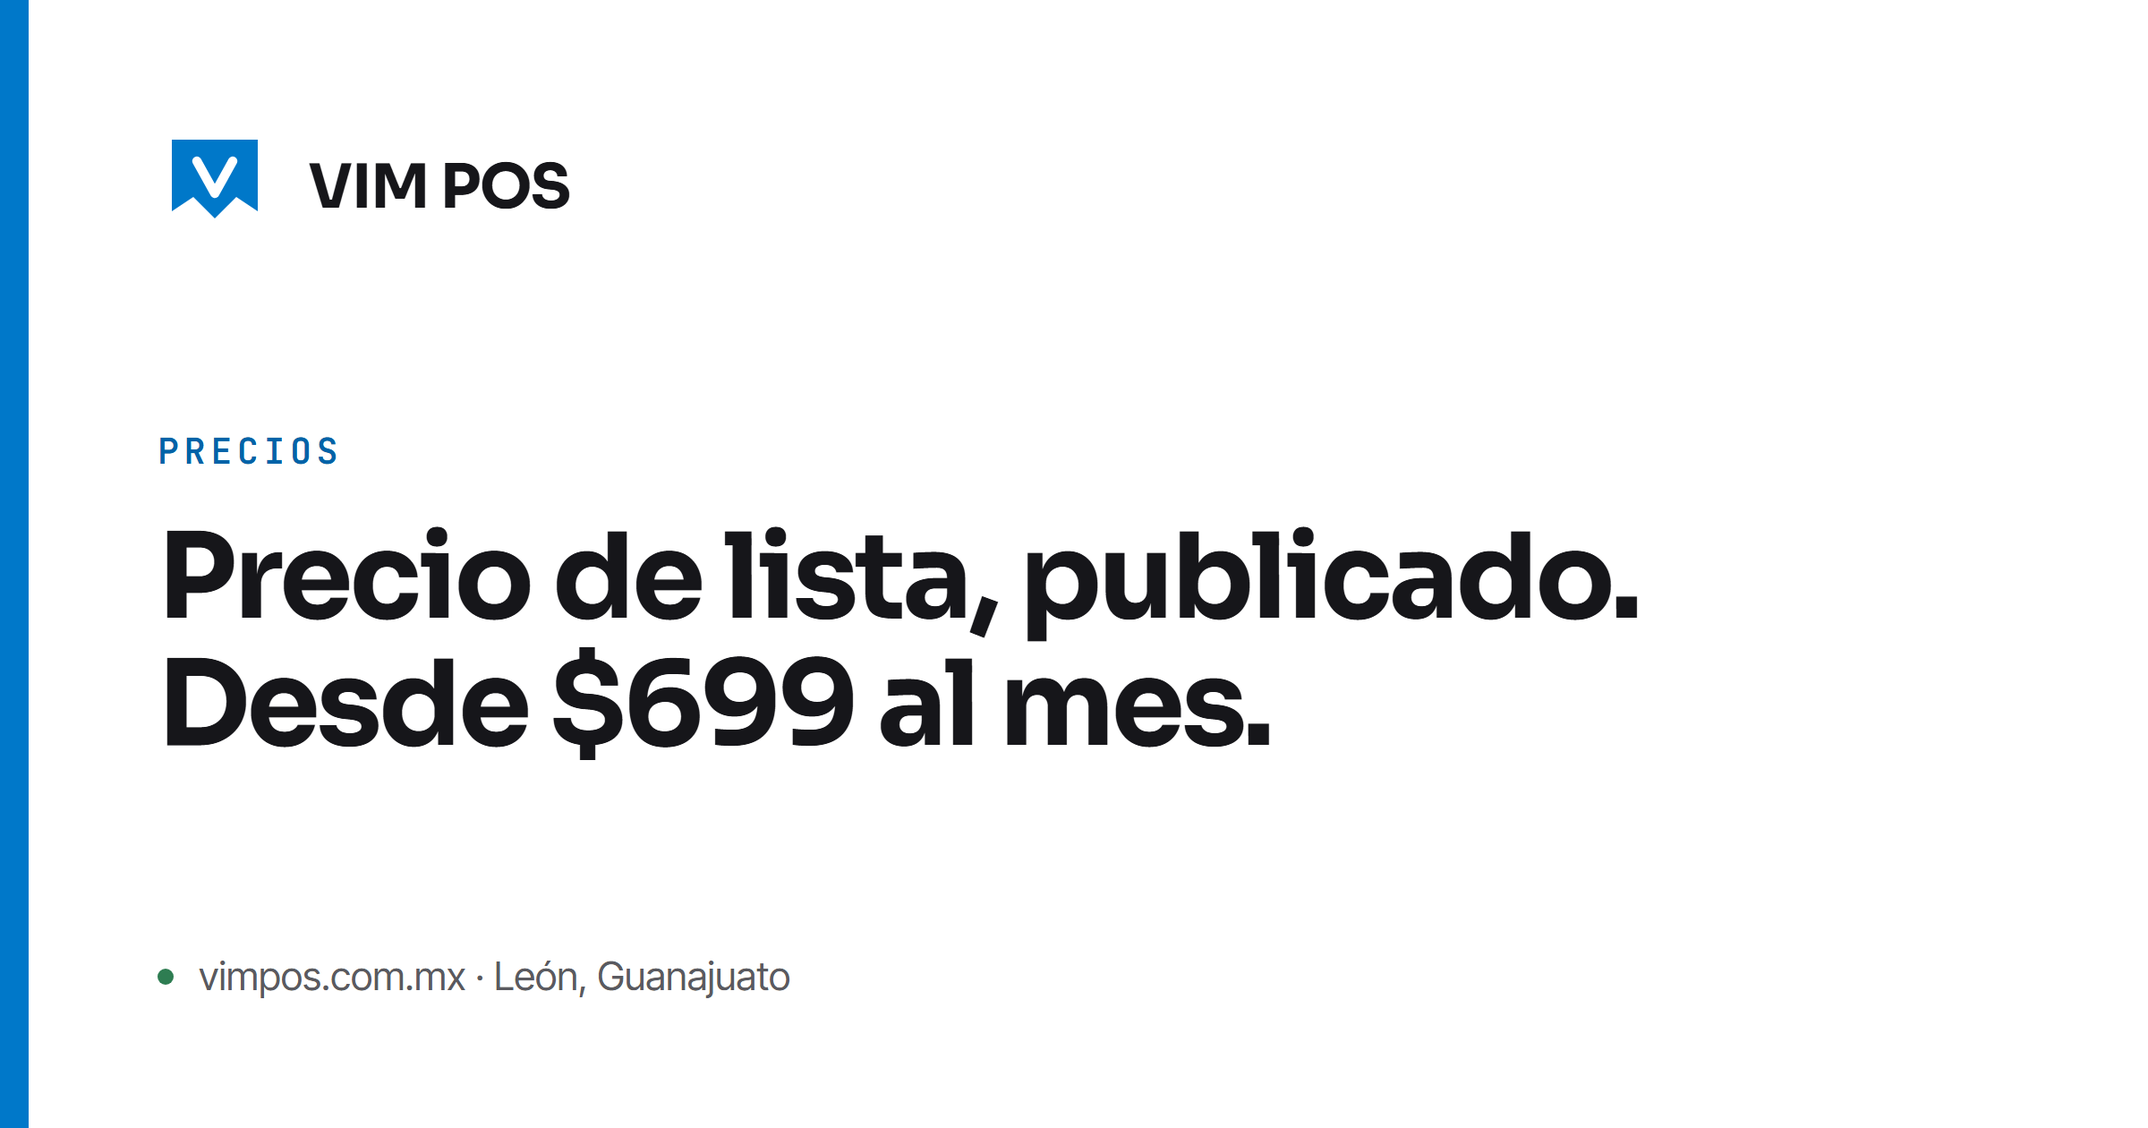
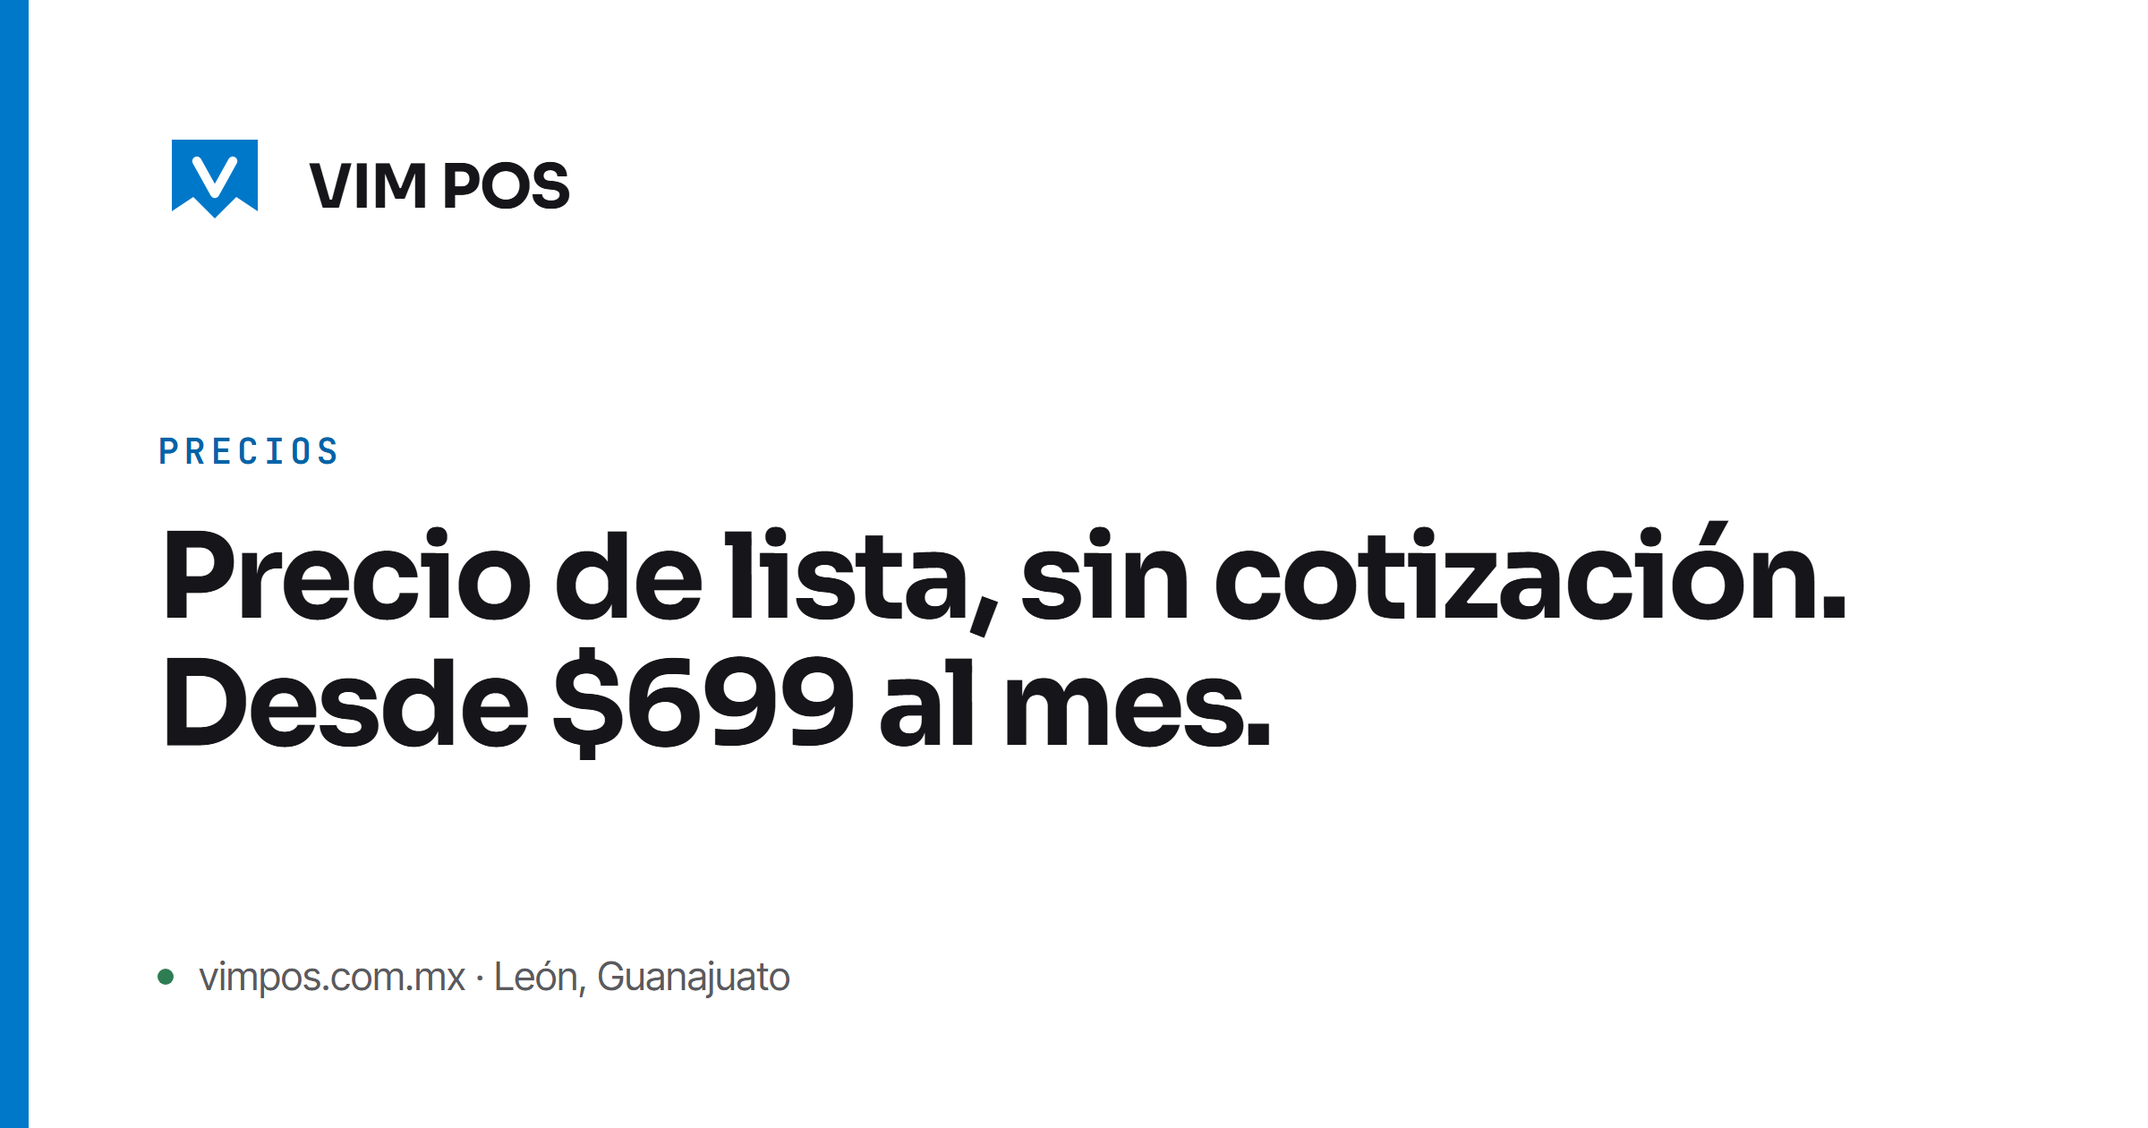
fix(sitio+producto): USB sí funciona, horario lunes a sábado, fuera «precio publicado» (#111)
* fix(producto): las impresoras USB sí funcionan; corrige la pantalla de descarga, el correo de bienvenida y el doc de alta

La pantalla de descarga del panel, el correo de bienvenida y docs/operacion/alta-de-cliente.md
decían que las impresoras USB no funcionan. Funcionan las de USB (instaladas en Windows) y las de red.

* fix(sitio): impresoras USB y de red, horario de WhatsApp lunes a sábado y fuera «precio publicado»

- Impresoras: el sitio decía que las de USB no funcionan; ahora dice que funcionan las de red y las de USB.
- Horario de WhatsApp: de lunes a sábado, de 9:00 a 18:00; domingo no hay servicio (precios, contacto, terminos).
- Copy: se quita «precio publicado» y variantes; el precio va de frente, desde $699 al mes más IVA.
- Espejos .md, llms.txt y llms-full.txt regenerados con generar.mjs.

---------

Changed region(s): [[0.4688, 0.4643, 0.875, 0.5881]]

diff --git a/sitio-web/punto-de-venta-restaurantes-leon.html b/sitio-web/punto-de-venta-restaurantes-leon.html
@@ -5,7 +5,7 @@
 <meta name="viewport" content="width=device-width, initial-scale=1">
 
 <title>Punto de venta para restaurantes en León, Guanajuato — VIM POS</title>
-<meta name="description" content="VIM POS se hace en León. Si tu restaurante está en la zona, la demo es en tu mostrador y con tu menú. Precio publicado desde $699 al mes.">
+<meta name="description" content="VIM POS se hace en León. Si tu restaurante está en la zona, la demo es en tu mostrador y con tu menú. Desde $699 al mes más IVA, sin letra chica.">
 <link rel="canonical" href="https://vimpos.com.mx/punto-de-venta-restaurantes-leon">
 <link rel="alternate" type="text/markdown" href="https://vimpos.com.mx/punto-de-venta-restaurantes-leon.md" title="Esta página en Markdown">
 
@@ -13,7 +13,7 @@
 <meta property="og:locale" content="es_MX">
 <meta property="og:site_name" content="VIM POS">
 <meta property="og:title" content="Punto de venta para restaurantes en León, Guanajuato">
-<meta property="og:description" content="VIM POS se hace en León. Si tu restaurante está en la zona, la demo es en tu mostrador y con tu menú. Precio publicado desde $699 al mes.">
+<meta property="og:description" content="VIM POS se hace en León. Si tu restaurante está en la zona, la demo es en tu mostrador y con tu menú. Desde $699 al mes más IVA, sin letra chica.">
 <meta property="og:url" content="https://vimpos.com.mx/punto-de-venta-restaurantes-leon">
 <meta property="og:image" content="https://vimpos.com.mx/assets/img/og/leon.png">
 <meta property="og:image:width" content="1200">
@@ -172,7 +172,7 @@
           <p>Tu cliente escanea el ticket y se factura solo; la factura global sale con un botón. <a href="/facturacion-cfdi">Facturación CFDI 4.0</a>.</p>
         </div>
         <div class="tarjeta pila pila-3">
-          <h3>Precio publicado</h3>
+          <h3>Precio de frente</h3>
           <p>Desde $699 al mes más IVA, sin pago inicial ni contrato forzoso. <a href="/precios">Los tres planes</a>.</p>
         </div>
       </div>
@@ -287,7 +287,7 @@
       "@id": "https://vimpos.com.mx/punto-de-venta-restaurantes-leon#pagina",
       "url": "https://vimpos.com.mx/punto-de-venta-restaurantes-leon",
       "name": "Punto de venta para restaurantes en León, Guanajuato — VIM POS",
-      "description": "VIM POS se hace en León. Si tu restaurante está en la zona, la demo es en tu mostrador y con tu menú. Precio publicado desde $699 al mes.",
+      "description": "VIM POS se hace en León. Si tu restaurante está en la zona, la demo es en tu mostrador y con tu menú. Desde $699 al mes más IVA, sin letra chica.",
       "inLanguage": "es-MX",
       "isPartOf": {
         "@id": "https://vimpos.com.mx/#sitio"

diff --git a/sitio-web/index.html b/sitio-web/index.html
@@ -31,7 +31,7 @@
 <meta property="og:locale" content="es_MX">
 <meta property="og:site_name" content="VIM POS">
 <meta property="og:title" content="Todo lo que tu restaurante necesita, sin letra chica">
-<meta property="og:description" content="Caja, cocina, mesas, inventario y facturación. Implementación incluida y el precio publicado.">
+<meta property="og:description" content="Caja, cocina, mesas, inventario y facturación. Implementación incluida y el precio de frente.">
 <meta property="og:url" content="https://vimpos.com.mx/">
 <meta property="og:image" content="https://vimpos.com.mx/assets/img/og/home.png">
 <meta property="og:image:width" content="1200">
@@ -129,7 +129,7 @@
        entero estaba montado encima.
 
        «Sin letra chica» sí se sostiene, y se comprueba en esta misma página:
-       el precio está publicado, hay una sección de lo que NO incluye, y la
+       el precio está a la vista, hay una sección de lo que NO incluye, y la
        facturación dijo «muy pronto» hasta que estuvo encendida de verdad
        (3-sep-2026, ADR 0009) en vez de fingir que ya estaba. Eso es lo
        que una marca desconocida puede ofrecer contra una de 25 años: ser
@@ -174,7 +174,7 @@
        se puede enseñar en pantalla en una demo de veinte minutos. -->
   <section class="hechos" aria-label="Hechos verificables">
     <div class="hecho"><p>Todo tu sistema vive en tu caja, no en internet</p></div>
-    <div class="hecho"><p>Imprime en impresoras térmicas de tickets conectadas a tu red</p></div>
+    <div class="hecho"><p>Imprime en impresoras térmicas de tickets, de red o de USB</p></div>
     <div class="hecho"><p>El corte de caja cuadra contra lo que hay en el cajón</p></div>
     <div class="hecho"><p>Ves la venta del día desde tu celular</p></div>
   </section>
@@ -608,7 +608,7 @@
     <div class="contenedor pila pila-8">
       <div class="pila pila-4">
         <p class="eyebrow">Precios</p>
-        <h2>Precio de lista, publicado</h2>
+        <h2>Precio de lista, sin cotización</h2>
         <p>Mensual, en pesos, más IVA. Sin cotización ni «contáctanos para conocer el precio».</p>
       </div>
 

diff --git a/sitio-web/precios.html b/sitio-web/precios.html
@@ -4,7 +4,7 @@
 <meta charset="utf-8">
 <meta name="viewport" content="width=device-width, initial-scale=1">
 
-<title>Precios de VIM POS — publicados, sin cotización</title>
+<title>Precios de VIM POS — sin cotización</title>
 <meta name="description" content="Tres planes en pesos más IVA: Esencial $699, Negocio $999 y Cadena $1,999 al mes. Sin pago inicial ni contrato forzoso.">
 <link rel="canonical" href="https://vimpos.com.mx/precios">
 <link rel="alternate" type="text/markdown" href="https://vimpos.com.mx/precios.md" title="Esta página en Markdown">
@@ -12,7 +12,7 @@
 <meta property="og:type" content="website">
 <meta property="og:locale" content="es_MX">
 <meta property="og:site_name" content="VIM POS">
-<meta property="og:title" content="Precios de VIM POS — publicados, sin cotización">
+<meta property="og:title" content="Precios de VIM POS — sin cotización">
 <meta property="og:description" content="Tres planes en pesos, más IVA. Sin pago inicial ni contrato forzoso.">
 <meta property="og:url" content="https://vimpos.com.mx/precios">
 <meta property="og:image" content="https://vimpos.com.mx/assets/img/og/precios.png">
@@ -112,7 +112,7 @@
   <section class="hero">
     <div class="contenedor pila pila-5">
       <p class="eyebrow">Precios</p>
-      <h1>Precios de VIM POS: tres planes, publicados</h1>
+      <h1>Precio de lista, sin cotización</h1>
       <p class="entradilla">
         Desde $699 al mes, en pesos y más IVA. Sin costo de instalación ni contrato forzoso.
       </p>
@@ -414,8 +414,7 @@
           <h3>Capacitación de tu equipo</h3>
           <p>
             Tres horas con quien va a estar en la caja y en la cocina. En Esencial, el panel te lleva
-            paso a paso hasta dejar todo listo, y las dudas se resuelven por WhatsApp, de 9:00 a
-            18:00.
+            paso a paso hasta dejar todo listo, y las dudas se resuelven por WhatsApp, de lunes a sábado, de 9:00 a 18:00; domingo no hay servicio.
           </p>
         </div>
         <div class="tarjeta pila pila-3">

diff --git a/sitio-web/contacto.html b/sitio-web/contacto.html
@@ -141,7 +141,8 @@
             </li>
           </ul>
           <p>
-            Contestamos <strong>el mismo día hábil</strong>, en horario hábil y en español.
+            Contestamos <strong>el mismo día hábil</strong> y en español. Por WhatsApp atendemos
+            de lunes a sábado, de 9:00 a 18:00; domingo no hay servicio.
             No hay número 800 ni menú de opciones: escribes y contesta una persona.
           </p>
         </div>
@@ -185,7 +186,7 @@
           <ul class="lista-legal">
             <li>
               <strong>Saber cuánto cuesta.</strong> No hace falta escribirnos: los tres planes,
-              los extras y los paquetes de folios están publicados en la
+              los extras y los paquetes de folios están en la
               <a href="/precios">página de precios</a>.
             </li>
             <li>
@@ -197,8 +198,9 @@
               con tus productos y tus precios cargados, sin presentación y sin compromiso.
             </li>
             <li>
-              <strong>Soporte, si ya eres cliente.</strong> Al mismo correo, en horario
-              hábil, y también el día del arranque en los planes con acompañamiento.
+              <strong>Soporte, si ya eres cliente.</strong> Al mismo correo y por WhatsApp,
+              de lunes a sábado, de 9:00 a 18:00; domingo no hay servicio. También el día del arranque en los
+              planes con acompañamiento.
             </li>
             <li>
               <strong>Derechos ARCO o privacidad.</strong> Por correo, con lo que pide el

diff --git a/apps/admin/app/(panel)/configuracion/cajas/descargar/page.tsx b/apps/admin/app/(panel)/configuracion/cajas/descargar/page.tsx
@@ -52,9 +52,9 @@ export default async function DescargarCajaPage() {
               <li><b className="text-ink">Una computadora con Windows 10 u 11 de 64 bits.</b> No hace falta que sea nueva.</li>
               <li><b className="text-ink">Internet para conectarla la primera vez.</b> Después sigue cobrando aunque se vaya el internet, y sube las ventas cuando regresa.</li>
               <li>
-                <b className="text-ink">Una impresora térmica de tickets de 80 mm con puerto de red</b> (cable Ethernet o Wi-Fi) y compatible
-                con ESC/POS. <b className="text-ink">Las impresoras USB hoy no funcionan.</b> Por ejemplo, de ese tipo son la Epson TM-T20III
-                o la TM-m30 en su versión de red; al comprar, pide que diga «Ethernet» o «LAN».
+                <b className="text-ink">Una impresora térmica de tickets de 80 mm</b> compatible con ESC/POS, de red (cable Ethernet o Wi-Fi)
+                o de USB. <b className="text-ink">Funcionan las dos.</b> Por ejemplo, la Epson TM-T20III o la TM-m30. Si es de red, al comprar
+                pide que diga «Ethernet» o «LAN»; si es de USB, se instala primero en Windows.
               </li>
               <li><b className="text-ink">Un cajón de dinero conectado a la impresora</b>, que se abre solo al cobrar.</li>
             </ul>

diff --git a/sitio-web/como-elegir-sistema-restaurante.html b/sitio-web/como-elegir-sistema-restaurante.html
@@ -187,11 +187,11 @@
       </figure>
 
         <div class="pila pila-3">
-          <h3>2 · ¿El precio está publicado?</h3>
+          <h3>2 · ¿Te dicen el precio de frente?</h3>
           <p>
             Si hay que pedir cotización, el precio depende de lo que el vendedor calcule que puedes
             pagar. No es ilegal ni raro, pero conviene saberlo: las tres formas de cobrar están en
-            <a href="/cuanto-cuesta-un-sistema-para-restaurante">cuánto cuesta un sistema para restaurante</a>. Un precio publicado también es un
+            <a href="/cuanto-cuesta-un-sistema-para-restaurante">cuánto cuesta un sistema para restaurante</a>. Un precio a la vista también es un
             precio que no te pueden subir en la renovación sin que te enteres.
           </p>
         </div>
@@ -321,7 +321,7 @@
         </p>
         <div class="fila" style="justify-content:center">
           <a class="btn btn-primario btn-hero" href="/demo">Pide una demo</a>
-          <a class="btn btn-fantasma btn-hero" href="/precios">Ver los precios publicados</a>
+          <a class="btn btn-fantasma btn-hero" href="/precios">Ver los precios</a>
         </div>
       </div>
     </div>

diff --git a/sitio-web/nosotros.html b/sitio-web/nosotros.html
@@ -13,7 +13,7 @@
 <meta property="og:locale" content="es_MX">
 <meta property="og:site_name" content="VIM POS">
 <meta property="og:title" content="Quién está detrás de VIM POS">
-<meta property="og:description" content="El precio está publicado y los límites están escritos. Quién construye VIM POS y en qué punto está el producto hoy.">
+<meta property="og:description" content="El precio va de frente y los límites están escritos. Quién construye VIM POS y en qué punto está el producto hoy.">
 <meta property="og:url" content="https://vimpos.com.mx/nosotros">
 <meta property="og:image" content="https://vimpos.com.mx/assets/img/og/legal.png">
 <meta property="og:image:width" content="1200">
@@ -167,7 +167,7 @@
           </p>
           <ul class="lista-legal">
             <li>
-              <strong>El precio está publicado.</strong> Los tres planes, los extras y los
+              <strong>El precio va de frente.</strong> Los tres planes, los extras y los
               paquetes de folios están en la <a href="/precios">página de precios</a>. No
               hay «contáctanos para conocer el precio».
             </li>

diff --git a/sitio-web/cuanto-cuesta-un-sistema-para-restaurante.html b/sitio-web/cuanto-cuesta-un-sistema-para-restaurante.html
@@ -250,7 +250,7 @@
         <p class="eyebrow">Dónde queda VIM POS</p>
         <h2>Licencia fija, cero comisión, y lo que no incluye</h2>
         <p>
-          Somos el primer modelo. El precio está <a href="/precios">publicado</a>; no hay pago
+          Somos el primer modelo. El precio está <a href="/precios">a la vista</a>; no hay pago
           inicial, y desde Negocio la carga de tu menú y la capacitación van incluidas; y no nos llevamos
           ni un peso de tus ventas: la tarjeta se cobra en tu terminal de siempre y en el sistema se
           registra como forma de pago para que el corte cuadre.
@@ -276,7 +276,7 @@
         </p>
         <div class="fila" style="justify-content:center">
           <a class="btn btn-primario btn-hero" href="/demo">Pide una demo</a>
-          <a class="btn btn-fantasma btn-hero" href="/precios">Ver los precios publicados</a>
+          <a class="btn btn-fantasma btn-hero" href="/precios">Ver los precios</a>
         </div>
       </div>
     </div>

diff --git a/supabase/functions/_shared/bienvenida.ts b/supabase/functions/_shared/bienvenida.ts
@@ -91,7 +91,7 @@ export function correoBienvenida(d: DatosBienvenida): { subject: string; html: s
   <p style="margin:22px 0 6px"><b>Qué necesitas para la caja</b></p>
   <ul style="margin:0 0 14px;padding-left:22px">
     <li>Una computadora con Windows 10 u 11.</li>
-    <li>Una impresora de tickets <b>de red</b> (con cable de red o Wi-Fi). Las impresoras USB no funcionan con VIM POS; si vas a comprar una, pide que diga «Ethernet» o «LAN».</li>
+    <li>Una impresora de tickets, <b>de red</b> (con cable de red o Wi-Fi) <b>o de USB</b>. Funcionan las dos. Si es de red y vas a comprarla, pide que diga «Ethernet» o «LAN»; si es de USB, se instala primero en Windows.</li>
     <li>Internet para conectarla la primera vez. Después la caja sigue cobrando aunque se vaya el internet.</li>
   </ul>
   <p ${p}>El programa de la caja se descarga aquí, desde la computadora donde vas a cobrar:<br>${enlace(descargar)}</p>

diff --git a/sitio-web/404.html b/sitio-web/404.html
@@ -124,7 +124,7 @@
       <div class="tres">
         <a class="tarjeta pila pila-3" href="/precios" style="text-decoration:none">
           <h3>Precios</h3>
-          <p>Los tres planes con su precio publicado y qué incluye cada uno.</p>
+          <p>Los tres planes con su precio y qué incluye cada uno.</p>
         </a>
         <a class="tarjeta pila pila-3" href="/sin-internet" style="text-decoration:none">
           <h3>Sin internet</h3>

diff --git a/sitio-web/terminos.html b/sitio-web/terminos.html
@@ -299,7 +299,7 @@
             si algo se cae, te contestamos y lo atendemos.
           </p>
           <p>
-            Soporte por WhatsApp y correo en horario hábil. En los planes con acompañamiento,
+            Soporte por WhatsApp y correo, de lunes a sábado, de 9:00 a 18:00; domingo no hay servicio. En los planes con acompañamiento,
             también el día del arranque.
           </p>
         </div>

diff --git a/sitio-web/contacto.md b/sitio-web/contacto.md
@@ -16,7 +16,7 @@ Te contestamos el mismo día hábil. Sin centro de llamadas y sin vendedor.
 - **WhatsApp, en cuanto nos escribas.** Si prefieres seguir la conversación por ahí, dilo en el correo y te pasamos el número. Ya no lo publicamos en el sitio.
 - **El [formulario de demostración](https://vimpos.com.mx/demo).** Si prefieres que te busquemos nosotros. Pide cuántas cajas y cuántas sucursales tienes, que es lo que decide qué plan te toca y qué te enseñamos.
 
-Contestamos **el mismo día hábil**, en horario hábil y en español. No hay número 800 ni menú de opciones: escribes y contesta una persona.
+Contestamos **el mismo día hábil** y en español. Por WhatsApp atendemos de lunes a sábado, de 9:00 a 18:00; domingo no hay servicio. No hay número 800 ni menú de opciones: escribes y contesta una persona.
 
 ![Panel del dueño con las ventas del día, el ticket promedio y el top de productos.](https://vimpos.com.mx/assets/img/capturas/admin-dashboard.webp?v=3)
 
@@ -32,10 +32,10 @@ _El panel que te enseñamos en la demostración: cómo va el día, la venta por 
 
 ## Qué te sirve más según lo que busques
 
-- **Saber cuánto cuesta.** No hace falta escribirnos: los tres planes, los extras y los paquetes de folios están publicados en la [página de precios](https://vimpos.com.mx/precios).
+- **Saber cuánto cuesta.** No hace falta escribirnos: los tres planes, los extras y los paquetes de folios están en la [página de precios](https://vimpos.com.mx/precios).
 - **Saber si hace lo que necesitas.** Lo que hace el sistema y lo que no, módulo por módulo, está en [funciones](https://vimpos.com.mx/funciones).
 - **Verlo funcionando.** [Pide una demo](https://vimpos.com.mx/demo): media hora, con tus productos y tus precios cargados, sin presentación y sin compromiso.
-- **Soporte, si ya eres cliente.** Al mismo correo, en horario hábil, y también el día del arranque en los planes con acompañamiento.
+- **Soporte, si ya eres cliente.** Al mismo correo y por WhatsApp, de lunes a sábado, de 9:00 a 18:00; domingo no hay servicio. También el día del arranque en los planes con acompañamiento.
 - **Derechos ARCO o privacidad.** Por correo, con lo que pide el [aviso de privacidad](https://vimpos.com.mx/aviso-privacidad). Se contesta en un máximo de 20 días hábiles y no cuesta nada.
 
 Para agentes y herramientas automáticas
